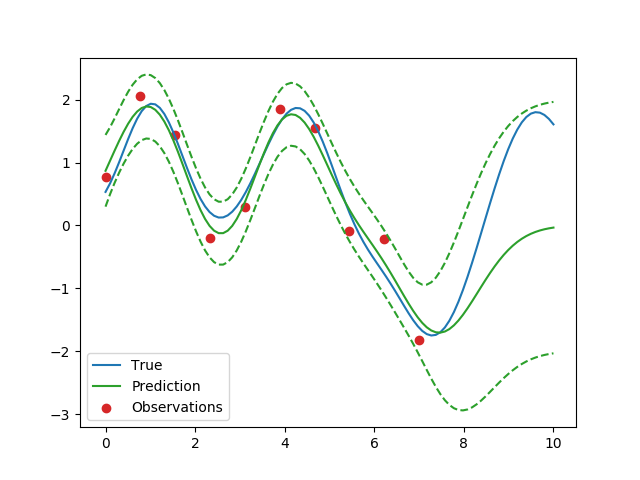
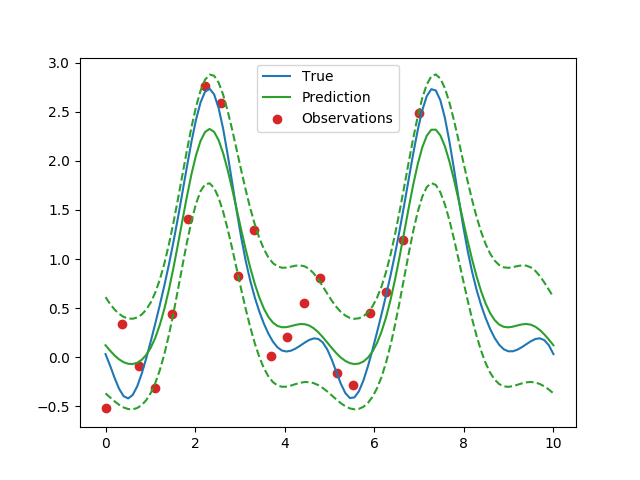
Add third README example

diff --git a/readme_example3.py b/readme_example3.py
@@ -1,0 +1,50 @@
+import matplotlib.pyplot as plt
+import numpy as np
+import tensorflow as tf
+from tensorflow.contrib.opt import ScipyOptimizerInterface as SOI
+from wbml import vars64 as vs
+
+from stheno.tf import GP, EQ, Kronecker, model
+
+s = tf.Session()
+
+# Define points to predict at.
+x = np.linspace(0, 5, 100)[:, None]
+x_obs = np.linspace(0, 3, 20)[:, None]
+
+# Construct the model.
+u = GP(vs.pos(.5) * EQ().stretch(vs.pos(1.)))
+e = GP(vs.pos(.5) * Kronecker())
+alpha = vs.pos(1.2)
+vs.init(s)
+
+f = u + (lambda x: x ** alpha)
+y = f + e
+
+# Sample a true, underlying function and observations.
+f_true = x ** 1.8
+y_obs = s.run(y.condition(f @ x, f_true)(x_obs).sample())
+model.revert_prior()
+
+# Learn.
+lml = y(x_obs).log_pdf(y_obs)
+SOI(-lml).minimize(s)
+
+# Print the learned parameters.
+print('alpha', s.run(alpha))
+print('noise', s.run(e.var))
+print('u scale', s.run(u.length_scale))
+print('u variance', s.run(u.var))
+
+# Condition on the observations to make predictions.
+mean, lower, upper = s.run(f.condition(y @ x_obs, y_obs).predict(x))
+
+# Plot result.
+x, f_true, x_obs, y_obs = map(np.squeeze, (x, f_true, x_obs, y_obs))
+plt.plot(x, f_true, label='True', c='tab:blue')
+plt.scatter(x_obs, y_obs, label='Observations', c='tab:red')
+plt.plot(x, mean, label='Prediction', c='tab:green')
+plt.plot(x, lower, ls='--', c='tab:green')
+plt.plot(x, upper, ls='--', c='tab:green')
+plt.legend()
+plt.show()

diff --git a/doc/readme.rst b/doc/readme.rst
@@ -24,12 +24,12 @@ Example: Simple Regression
 
     # Define points to predict at.
     x = np.linspace(0, 10, 100)[:, None]
-    x_obs = np.linspace(0, 7, 10)[:, None]
+    x_obs = np.linspace(0, 7, 20)[:, None]
 
     # Construct a prior.
-    f = GP(EQ())  # Latent function.
-    e = GP(0.1 * Kronecker())  # Noise.
-    y = f + e
+    f = GP(EQ().periodic(5.))  # Latent function.
+    e = GP(Kronecker())  # Noise.
+    y = f + .5 * e
 
     # Sample a true, underlying function.
     f_true = f(x).sample()
@@ -153,6 +153,67 @@ Example: Decomposition of Prediction
     plt.title('Linear Component')
     plot_prediction(x, f_true_linear, pred_linear)
 
+    plt.show()
+
+Example: Learn a Function, Incorporating Prior Knowledge About Its Form
+-----------------------------------------------------------------------
+
+.. figure:: https://raw.githubusercontent.com/wesselb/stheno/master/readme_prediction3.png
+   :alt: Prediction
+
+   Prediction
+
+.. code:: python
+
+    import matplotlib.pyplot as plt
+    import numpy as np
+    import tensorflow as tf
+    from tensorflow.contrib.opt import ScipyOptimizerInterface as SOI
+    from wbml import vars64 as vs
+
+    from stheno.tf import GP, EQ, Kronecker, model
+
+    s = tf.Session()
+
+    # Define points to predict at.
+    x = np.linspace(0, 5, 100)[:, None]
+    x_obs = np.linspace(0, 3, 20)[:, None]
+
+    # Construct the model.
+    u = GP(vs.pos(.5) * EQ().stretch(vs.pos(1.)))
+    e = GP(vs.pos(.5) * Kronecker())
+    alpha = vs.pos(1.2)
+    vs.init(s)
+
+    f = u + (lambda x: x ** alpha)
+    y = f + e
+
+    # Sample a true, underlying function and observations.
+    f_true = x ** 1.8
+    y_obs = s.run(y.condition(f @ x, f_true)(x_obs).sample())
+    model.revert_prior()
+
+    # Learn.
+    lml = y(x_obs).log_pdf(y_obs)
+    SOI(-lml).minimize(s)
+
+    # Print the learned parameters.
+    print('alpha', s.run(alpha))
+    print('noise', s.run(e.var))
+    print('u scale', s.run(u.length_scale))
+    print('u variance', s.run(u.var))
+
+    # Condition on the observations to make predictions.
+    mean, lower, upper = s.run(f.condition(y @ x_obs, y_obs).predict(x))
+
+    # Plot result.
+    x, f_true, x_obs, y_obs = map(np.squeeze, (x, f_true, x_obs, y_obs))
+    plt.plot(x, f_true, label='True', c='tab:blue')
+    plt.scatter(x_obs, y_obs, label='Observations', c='tab:red')
+    plt.plot(x, mean, label='Prediction', c='tab:green')
+    plt.plot(x, lower, ls='--', c='tab:green')
+    plt.plot(x, upper, ls='--', c='tab:green')
+    plt.legend()
     plt.show()
 
 .. |Build| image:: https://travis-ci.org/wesselb/stheno.svg?branch=master

diff --git a/README.md b/README.md
@@ -21,12 +21,12 @@ from stheno import GP, EQ, Kronecker
 
 # Define points to predict at.
 x = np.linspace(0, 10, 100)[:, None]
-x_obs = np.linspace(0, 7, 10)[:, None]
+x_obs = np.linspace(0, 7, 20)[:, None]
 
 # Construct a prior.
-f = GP(EQ())  # Latent function.
+f = GP(EQ().periodic(5.))  # Latent function.
 e = GP(Kronecker())  # Noise.
-y = f + 0.1 * e
+y = f + .5 * e
 
 # Sample a true, underlying function.
 f_true = f(x).sample()
@@ -47,7 +47,6 @@ plt.plot(x, lower, ls='--', c='tab:green')
 plt.plot(x, upper, ls='--', c='tab:green')
 plt.legend()
 plt.show()
-
 ```
 
 ## Example: Decomposition of Prediction
@@ -147,5 +146,62 @@ plt.subplot(3, 2, 6)
 plt.title('Linear Component')
 plot_prediction(x, f_true_linear, pred_linear)
 
+plt.show()
+```
+
+## Example: Learn a Function, Incorporating Prior Knowledge About Its Form
+
+![Prediction](https://raw.githubusercontent.com/wesselb/stheno/master/readme_prediction3.png)
+
+```python
+import matplotlib.pyplot as plt
+import numpy as np
+import tensorflow as tf
+from tensorflow.contrib.opt import ScipyOptimizerInterface as SOI
+from wbml import vars64 as vs
+
+from stheno.tf import GP, EQ, Kronecker, model
+
+s = tf.Session()
+
+# Define points to predict at.
+x = np.linspace(0, 5, 100)[:, None]
+x_obs = np.linspace(0, 3, 20)[:, None]
+
+# Construct the model.
+u = GP(vs.pos(.5) * EQ().stretch(vs.pos(1.)))
+e = GP(vs.pos(.5) * Kronecker())
+alpha = vs.pos(1.2)
+vs.init(s)
+
+f = u + (lambda x: x ** alpha)
+y = f + e
+
+# Sample a true, underlying function and observations.
+f_true = x ** 1.8
+y_obs = s.run(y.condition(f @ x, f_true)(x_obs).sample())
+model.revert_prior()
+
+# Learn.
+lml = y(x_obs).log_pdf(y_obs)
+SOI(-lml).minimize(s)
+
+# Print the learned parameters.
+print('alpha', s.run(alpha))
+print('noise', s.run(e.var))
+print('u scale', s.run(u.length_scale))
+print('u variance', s.run(u.var))
+
+# Condition on the observations to make predictions.
+mean, lower, upper = s.run(f.condition(y @ x_obs, y_obs).predict(x))
+
+# Plot result.
+x, f_true, x_obs, y_obs = map(np.squeeze, (x, f_true, x_obs, y_obs))
+plt.plot(x, f_true, label='True', c='tab:blue')
+plt.scatter(x_obs, y_obs, label='Observations', c='tab:red')
+plt.plot(x, mean, label='Prediction', c='tab:green')
+plt.plot(x, lower, ls='--', c='tab:green')
+plt.plot(x, upper, ls='--', c='tab:green')
+plt.legend()
 plt.show()
 ```
